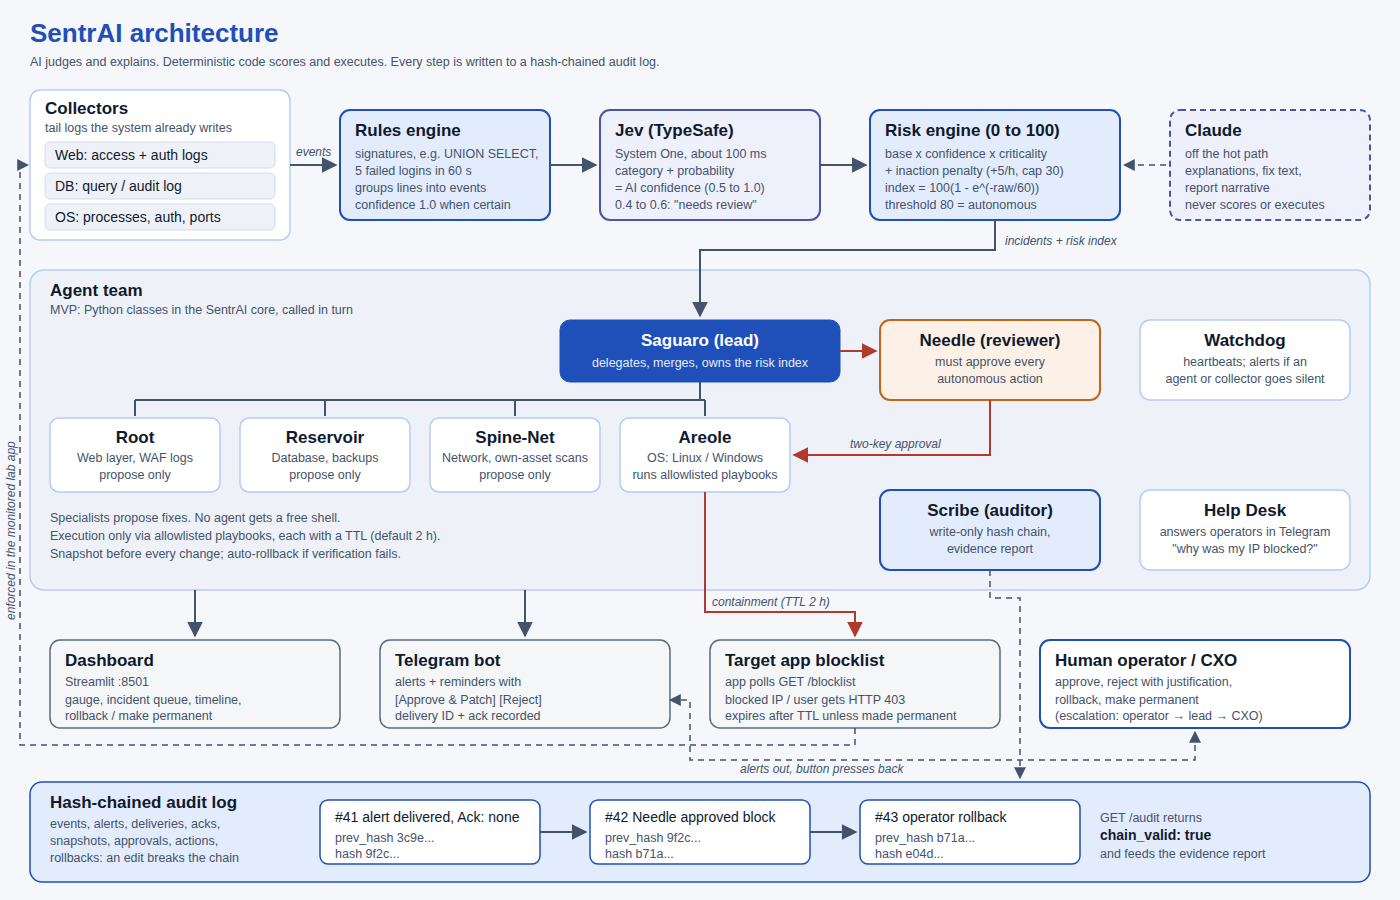
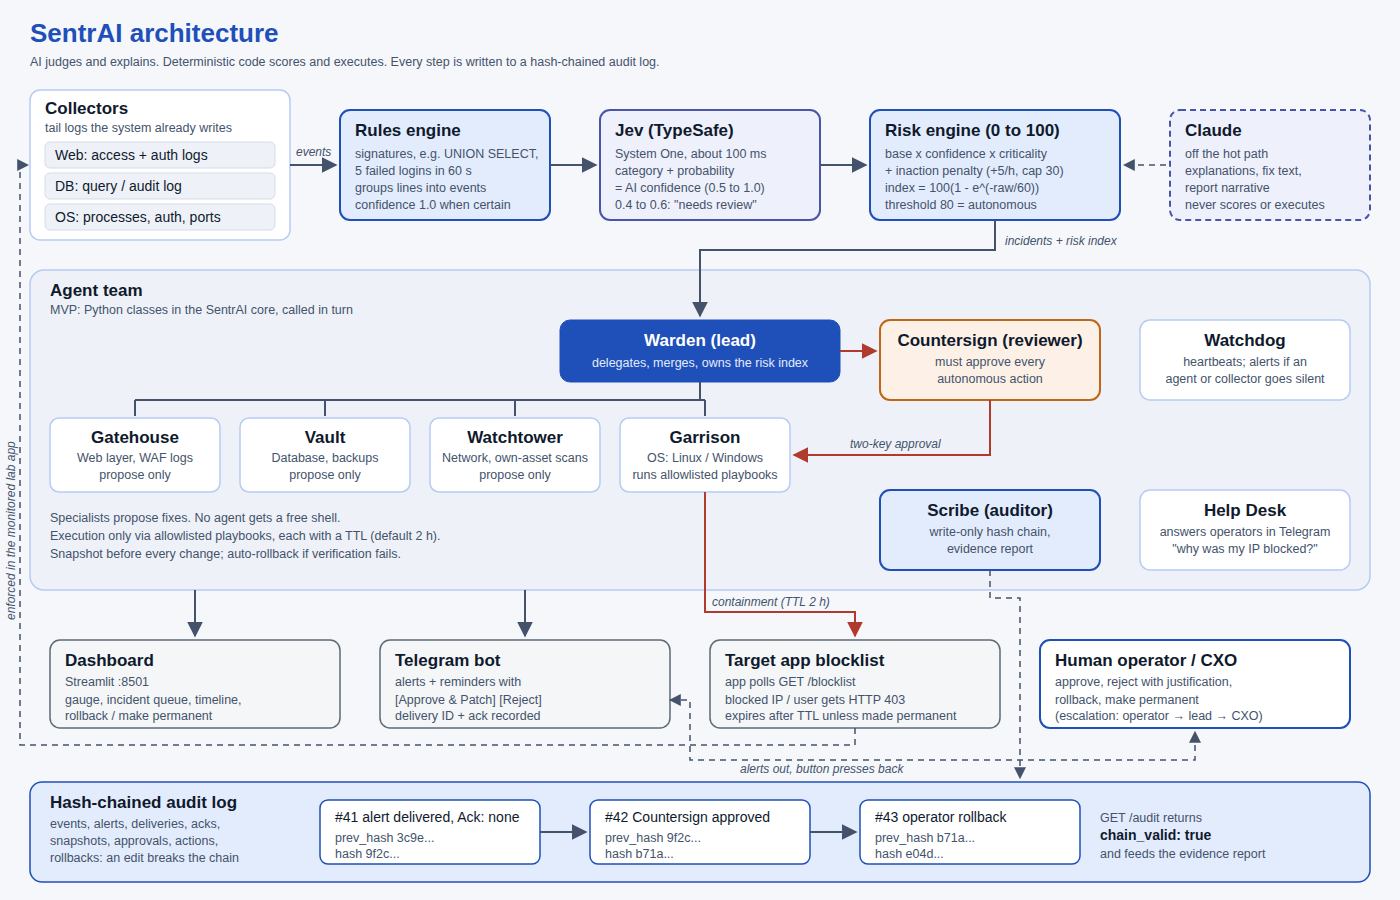
Finish the SentrAI outputs: blue ethics column, blue Garrison box, new agent names in images
PR #31 was merged just before its last push. This brings in what was left: the ethics
image's "Always" column and the architecture diagram's Garrison box use the brand blue,
and the timeline/ethics images and the sample report say Countersign and Warden.

Claude-Session: https://claude.ai/code/session_01JgaafdnUpvpS6S3fcyzFry

diff --git a/mvp/samples/outputs/make_sample_report.py b/mvp/samples/outputs/make_sample_report.py
@@ -17,16 +17,16 @@ r = {"report_id": "ER-RSK-2026-081", "title": "Security Evidence Report", "gener
    {"ts": "2026-09-29T13:56:04+08:00", "demo_time": "+2:00", "kind": "sla_breach", "event": "SLA breached, team lead copied", "points": None},
    {"ts": "2026-09-29T14:00:34+08:00", "demo_time": "+6:30", "kind": "event", "event": "SQL injection on /search (+54)", "points": 54},
    {"ts": "2026-09-29T14:00:40+08:00", "demo_time": "+6:36", "kind": "containment", "event": "Autonomous containment: block_ip 203.0.113.45 (TTL 2 h)", "points": None}],
- "forced_action": {"taken": True, "summary": "Autonomous override engaged (approved by Needle): block_ip 203.0.113.45 (active). Temporary, TTL 2 h, reversible via rollback.",
-   "actions": [{"action_id": "ACT-0007", "type": "block_ip", "target": "203.0.113.45", "mode": "autonomous", "approved_by": "Needle", "status": "active", "expires_at": "2026-09-29T14:02:40+08:00", "snapshot_hash": h(7)}]},
- "approvals": [{"ts": "2026-09-29T14:00:39+08:00", "by": "Needle", "decision": "approved", "note": "Risk 88 is over the tolerance of 80; block is temporary and reversible."}],
+ "forced_action": {"taken": True, "summary": "Autonomous override engaged (approved by Countersign): block_ip 203.0.113.45 (active). Temporary, TTL 2 h, reversible via rollback.",
+   "actions": [{"action_id": "ACT-0007", "type": "block_ip", "target": "203.0.113.45", "mode": "autonomous", "approved_by": "Countersign", "status": "active", "expires_at": "2026-09-29T14:02:40+08:00", "snapshot_hash": h(7)}]},
+ "approvals": [{"ts": "2026-09-29T14:00:39+08:00", "by": "Countersign", "decision": "approved", "note": "Risk 88 is over the tolerance of 80; block is temporary and reversible."}],
  "non_repudiation": {"acknowledged": False, "ack": "Ack: none", "deliveries": [
    {"notification": "ntf-0001", "kind": "incident_opened", "delivered": True, "line": "Delivered 2026-09-29T13:54:06+08:00 via telegram (message_id 4242) to operator, Ack: none"},
    {"notification": "ntf-0002", "kind": "sla_breach", "delivered": True, "line": "Delivered 2026-09-29T13:56:05+08:00 via telegram+email (message_id 4250) to operator, lead, Ack: none"}],
    "statement": "Delivery receipts prove an alert reached the channel (message id + timestamp) and an acknowledgement proves the operator responded. Without an acknowledgement SentrAI cannot prove the alert was read, so it reports 'Delivered <ts>, Ack: none'."},
  "audit_proof": {"chain_valid": True, "first_invalid_seq": None, "chain_head_hash": h(0xb6),
    "records": [{"seq": 1040 + i, "ts": "2026-09-29T13:54:0%d+08:00" % i, "type": t, "agent": a, "prev_hash": h(i), "hash": h(i + 1)}
-               for i, (t, a) in enumerate([("event", "Collector"), ("incident_opened", "Saguaro"), ("notification_delivered", "Herald"), ("needle_review", "Needle"), ("action_applied", "Saguaro")])]},
+               for i, (t, a) in enumerate([("event", "Collector"), ("incident_opened", "Warden"), ("notification_delivered", "Herald"), ("needle_review", "Countersign"), ("action_applied", "Warden")])]},
  "demo_clock": {"demo_speed": 3600, "note": "Durations are in demo hours (DEMO_SPEED=3600: 1 real minute = 60 demo hour(s))."}}
 out = sys.argv[1] if len(sys.argv) > 1 else "."
 open(out + "/sample-evidence-report.pdf", "wb").write(render_pdf(r))

diff --git a/mvp/assets/make_assets.py b/mvp/assets/make_assets.py
@@ -302,7 +302,7 @@ def ethics():
         ("Disrupt or DDoS their system", "CMA s7: unauthorised obstruction of use"),
         ("Retaliate against an IP", "Often a spoofed or hijacked innocent machine"),
     ])
-    column(0.52, "Always: defend in place", GREEN, "✓", [
+    column(0.52, "Always: defend in place", BLUE, "✓", [
         ("Block", "Temporary IP block, 2h TTL, Countersign-approved"),
         ("Tarpit", "Slow the attacker so the attack gets expensive"),
         ("Honeytokens", "Decoy credentials and records that raise alarms"),

diff --git a/mvp/samples/outputs/sample-evidence-report.md b/mvp/samples/outputs/sample-evidence-report.md
@@ -12,7 +12,7 @@ _Issued by **SentrAI**. A sentry doesn't chase you. It just guards the gate._
 | --- | --- |
 | Responsible Entity | Admin: John Doe (Sample) - ID SEC-409 - Shift Bravo |
 | SLA Violation | Overdue by 4 h 30 min (Policy SLA: 2 hrs); not acknowledged |
-| Forced Action Taken | Autonomous override engaged (approved by Needle): block_ip 203.0.113.45 (active). Temporary, TTL 2 h, reversible via rollback. |
+| Forced Action Taken | Autonomous override engaged (approved by Countersign): block_ip 203.0.113.45 (active). Temporary, TTL 2 h, reversible via rollback. |
 | Proof of Non-Repudiation | Ack: none; 2 alert(s) delivered |
 | Audit chain | VALID, head `b6b6b6b6b6b6b6b6...` |
 
@@ -45,23 +45,23 @@ _Issued by **SentrAI**. A sentry doesn't chase you. It just guards the gate._
 
 | Time | By | Decision | Note |
 | --- | --- | --- | --- |
-| 2026-09-29T14:00:39+08:00 | Needle | approved | Risk 88 is over the tolerance of 80; block is temporary and reversible. |
+| 2026-09-29T14:00:39+08:00 | Countersign | approved | Risk 88 is over the tolerance of 80; block is temporary and reversible. |
 
 ## Containment actions
 
 | Action | Type | Target | Mode | Approved by | Status | Expires | Snapshot |
 | --- | --- | --- | --- | --- | --- | --- | --- |
-| ACT-0007 | block_ip | 203.0.113.45 | autonomous | Needle | active | 2026-09-29T14:02:40+08:00 | `070707070707` |
+| ACT-0007 | block_ip | 203.0.113.45 | autonomous | Countersign | active | 2026-09-29T14:02:40+08:00 | `070707070707` |
 
 ## Hash-chain proof
 
 | Seq | Time | Type | Agent | Hash |
 | --- | --- | --- | --- | --- |
 | 1040 | 2026-09-29T13:54:00+08:00 | event | Collector | `0101010101010101...` |
-| 1041 | 2026-09-29T13:54:01+08:00 | incident_opened | Saguaro | `0202020202020202...` |
+| 1041 | 2026-09-29T13:54:01+08:00 | incident_opened | Warden | `0202020202020202...` |
 | 1042 | 2026-09-29T13:54:02+08:00 | notification_delivered | Herald | `0303030303030303...` |
-| 1043 | 2026-09-29T13:54:03+08:00 | needle_review | Needle | `0404040404040404...` |
-| 1044 | 2026-09-29T13:54:04+08:00 | action_applied | Saguaro | `0505050505050505...` |
+| 1043 | 2026-09-29T13:54:03+08:00 | needle_review | Countersign | `0404040404040404...` |
+| 1044 | 2026-09-29T13:54:04+08:00 | action_applied | Warden | `0505050505050505...` |
 
[1 lines of base64/hex data omitted]
 
@@ -69,4 +69,4 @@ _Durations are in demo hours (DEMO_SPEED=3600: 1 real minute = 60 demo hour(s)).
 
 ---
 
-<sub>🛡 SentrAI · ER-RSK-2026-081 · generated 2026-09-29T14:05:00+08:00 · chain head b6b6b6b6b6b6b6b6...</sub>
+_🛡 SentrAI · ER-RSK-2026-081 · generated 2026-09-29T14:05:00+08:00 · chain head b6b6b6b6b6b6b6b6..._
